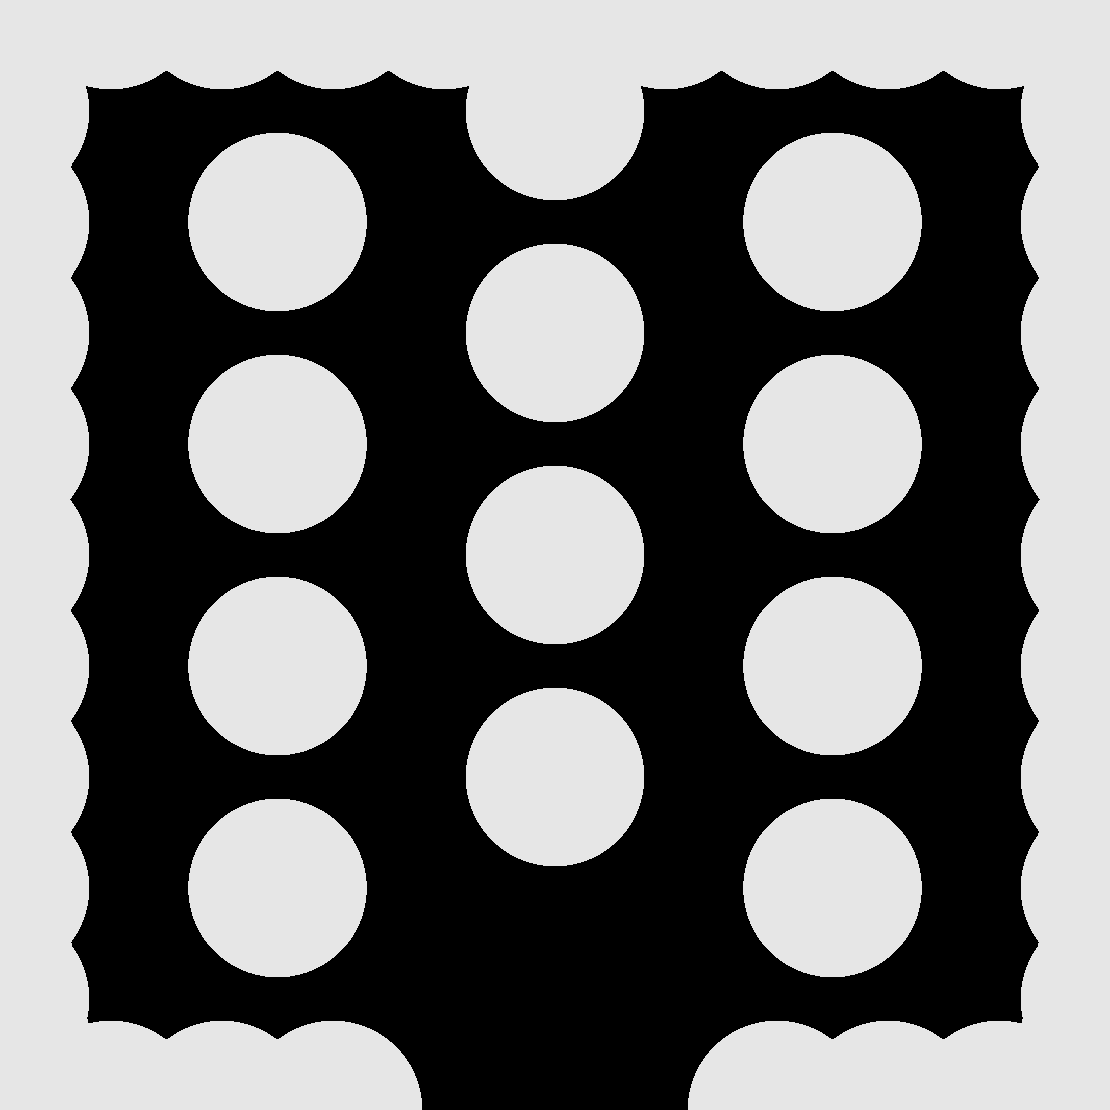
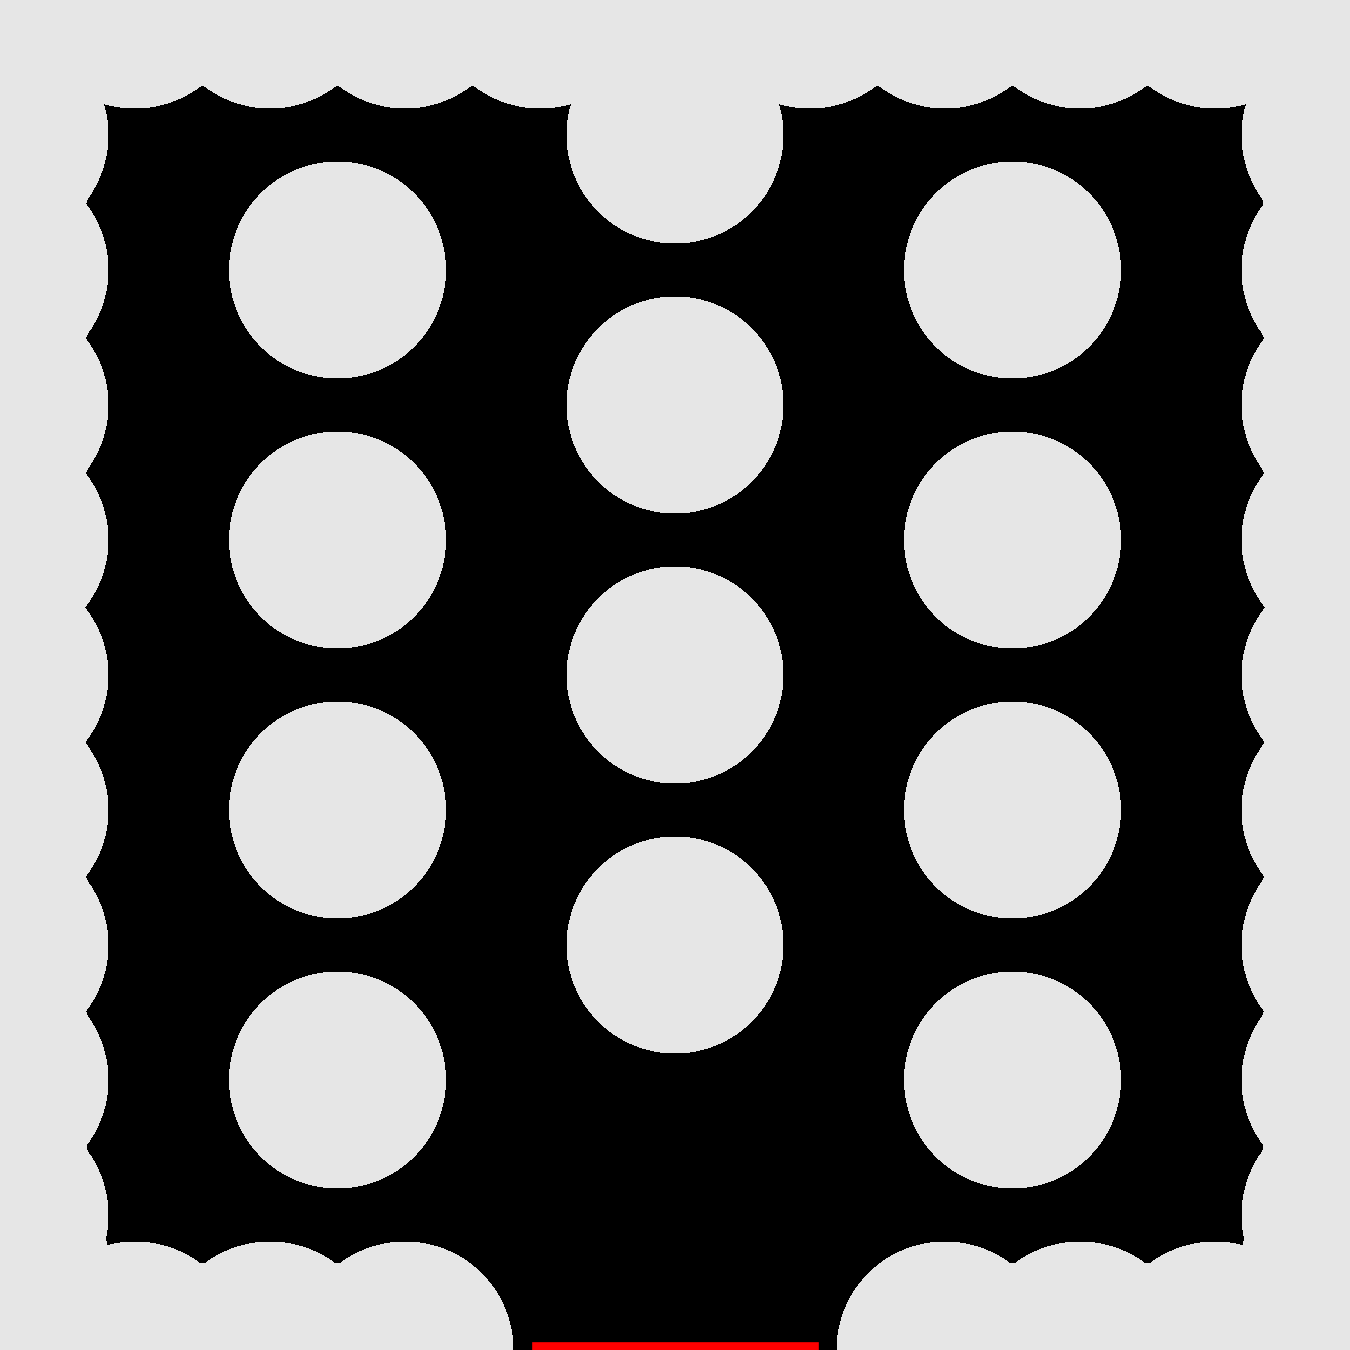
heat example 1 updated

Changed region(s): [[0.3982, 0.9802, 0.6126, 1.0]]

diff --git a/tex/distributed.tex b/tex/distributed.tex
@@ -2091,8 +2091,8 @@ According to \eqref{eq:problem}, the constraint function for this problem is wri
 \begin{equation}
 	C(\Omega) = \frac{1}{V} \int_{\mathcal{D}} \chi_{\Omega}.
 \end{equation}
-
-The weak formulation is:
+%
+The weak formulation of \eqref{eq:heat_prob} reads:
 Find $u \in  H^1_{\Gamma_0}(\mathcal{D})$ such that
 \begin{equation} \label{eq:heat_weak}
 	\int_{\mathcal{D}} A_{\Omega} \nabla u \cdot \nabla v =
@@ -2100,41 +2100,45 @@ Find $u \in  H^1_{\Gamma_0}(\mathcal{D})$ such that
 	\quad
 	\forall \, v \in  H^1_{\Gamma_0}(\mathcal{D}).
 \end{equation}
+In this case, the adjoint problem is the same as \eqref{eq:heat_weak}
+(excetp by a minus sign on the right-hand side), and thus $p=-u$.
 The shape derivative components are given by
 \begin{align*}
-	S^J_0 &= 2u\nabla f \\
-	S^J_1 &= \left(2uf-A_{\Omega}\left|\nabla u\right|^{2}\right)I+2A_{\Omega}\nabla u\otimes\nabla u,
+	S^J_0 &= 2u\nabla f, \\
+	S^J_1 &= (2uf-A_{\Omega}{|\nabla u|}^{2})I +
+				2A_{\Omega}\nabla u\otimes\nabla u
 \end{align*}
-and
+for the cost functional, and
 \begin{equation*}
 	S^C_0 = \boldsymbol{0},\quad S^C_1 = \frac{1}{V} \chi_\Omega I
 \end{equation*}
-The  bilinear form is
-\begin{equation} \label{eq:heat_biform}
-	B(\theta, \xi) = \int_{\mathcal{D}} D\theta : D\xi .
-\end{equation}
-In all examples, $\mathcal{D} = (0, 1)\times(0, 1)$
+for the constraint function.
+In all examples, we use the square domain $\mathcal{D} = (0, 1)\times(0, 1)$.
 
 \noindent\textit{Example 1.}
-
-$\Gamma_0 = (0.4, 0.6)\times\{y=0\}$
-
-$f \equiv 1$
-
-$V = 0.25$
-
+We apply a uniform heat $f \equiv 1$,
+with volume constraint $V = 0.25$ and
+fixed temperature $u=0$ on $\Gamma_0 = (0.4, 0.6)\times\{y=0\}$.
+The test is carry out using data parallelism with two processes:
 \begin{lstlisting}
 mpirun -np 2 python test.py 09 # Data
 \end{lstlisting}
-
-Figure \ref{fig:heat1}
+See the results in Figure \ref{fig:heat1}.
+In this example, we have employed the bilinear form
+\begin{equation*}
+	B(\theta, \xi) = \int_{\mathcal{D}} D\theta : D\xi
+	+ {10}^4(\theta \cdot \xi) \chi_{\Omega_0}, 
+\end{equation*}
+with $\theta, \xi \in \mathbb{H} = H^1_0(\mathcal{D})^d$
+and $\Omega_0 = (0.3, 0.7)\times[0, 0.05)$ (which contains $\Gamma_0$).
+Thus, the material around $\Gamma_0$ is penalized in the bilinear form $B$.
 \begin{center}
 \includegraphics[width=0.48\linewidth]{heat1_0.png}
 \hfill
 \includegraphics[width=0.48\linewidth]{heat1_1.png}
 \captionof{figure}{
-	Initial guess and
-	optimized design at iteration $i=204$.
+	Initial guess and optimized design at iteration $i=204$.
+	The boundary $\Gamma_0$ is shown in red.
 }
 \label{fig:heat1}
 \end{center}

diff --git a/code/plots.py b/code/plots.py
@@ -209,6 +209,21 @@ def plot_domain(domain, title = None):
     if title: plotter.add_title(title)
     plotter.show()
 
+def plot_results_for_doc(h5file, niter, lims, lw, path_name, boundaries = None):
+    
+    with h5py.File(h5file / "results.h5", "r") as f:
+        
+        points = f["/Mesh/mesh/geometry"][:]
+        cells = f["/Mesh/mesh/topology"][:]
+        
+        phi_group = f["/Function/phi"]
+
+        plot_level_for_doc(
+            points, cells, phi_group[str(niter)][:, 0],
+            lims = lims, lw = lw,
+            filename = path_name, boundaries = boundaries
+        )
+
 def plot_results(h5file, p, boundaries = None):
 
     with h5py.File(h5file, "r") as f:
@@ -263,6 +278,40 @@ def plot_2D_spacial(x_coords, y_coords, cells, values, figsize = None, save_path
         plt.savefig(save_path, format = save_path.split('.')[-1], dpi=300)
     else:
         plt.show()
+
+def plot_level_for_doc(points, cells, values, lims, lw, boundaries = None, figsize = None, filename = None):
+
+    x_coords, y_coords = points[:, 0], points[:, 1]
+
+    triang = mtri.Triangulation(x_coords, y_coords, cells)
+
+    fig, ax = plt.subplots(figsize = figsize)
+    ax.tricontourf(
+        triang,
+        values,
+        levels = [min(values), 0., max(values)],
+        colors = ["black", (0.9, 0.9, 0.9)] 
+    )
+    ax.set_aspect('equal')
+    
+    ax.set_xlim(lims[0])
+    ax.set_ylim(lims[1])
+    ax.set_xticks([])
+    ax.set_yticks([])
+    ax.tick_params(bottom=False, left=False)
+    for spine in ax.spines.values():
+        spine.set_visible(False)
+    #ax.set_position([0, 0, 1, 1])
+
+    fig.tight_layout()
+
+    if boundaries:
+        for xy, cl in boundaries:
+            ax.plot(xy[:, 0], xy[:, 1], color = cl, linewidth=lw)
+
+    if filename:
+        # format = filename.suffix[1:]
+        plt.savefig(filename, dpi = 300, pad_inches=0, bbox_inches='tight')
 
 def plot_level(dim, points, cells, values, lims = None, boundaries = None, figsize = None, title = None, filename = None):
     if dim == 2:

diff --git a/code/load.py b/code/load.py
@@ -3,7 +3,8 @@ import numpy as np
 
 from plots import (
     plot_basic,
-    see_initial_guess
+    see_initial_guess,
+    plot_results_for_doc
 )
 
 from pathlib import Path
@@ -133,7 +134,9 @@ def test_09():
     dir = np.array(vertices[(dir_idx[0]-1):(dir_idx[-1]+1)])
     boundaries = [(dir, "red")]
     
-    plot_basic(test_path, boundaries)
+    #plot_basic(test_path, boundaries)
+    plot_results_for_doc(test_path, 0, [[0, 1], [0, 1]], 4, Path("../tex/heat1_0.png"), boundaries)
+    plot_results_for_doc(test_path, 204, [[0, 1], [0, 1]], 4,  Path("../tex/heat1_1.png"), boundaries)
 
 def test_10():
     
